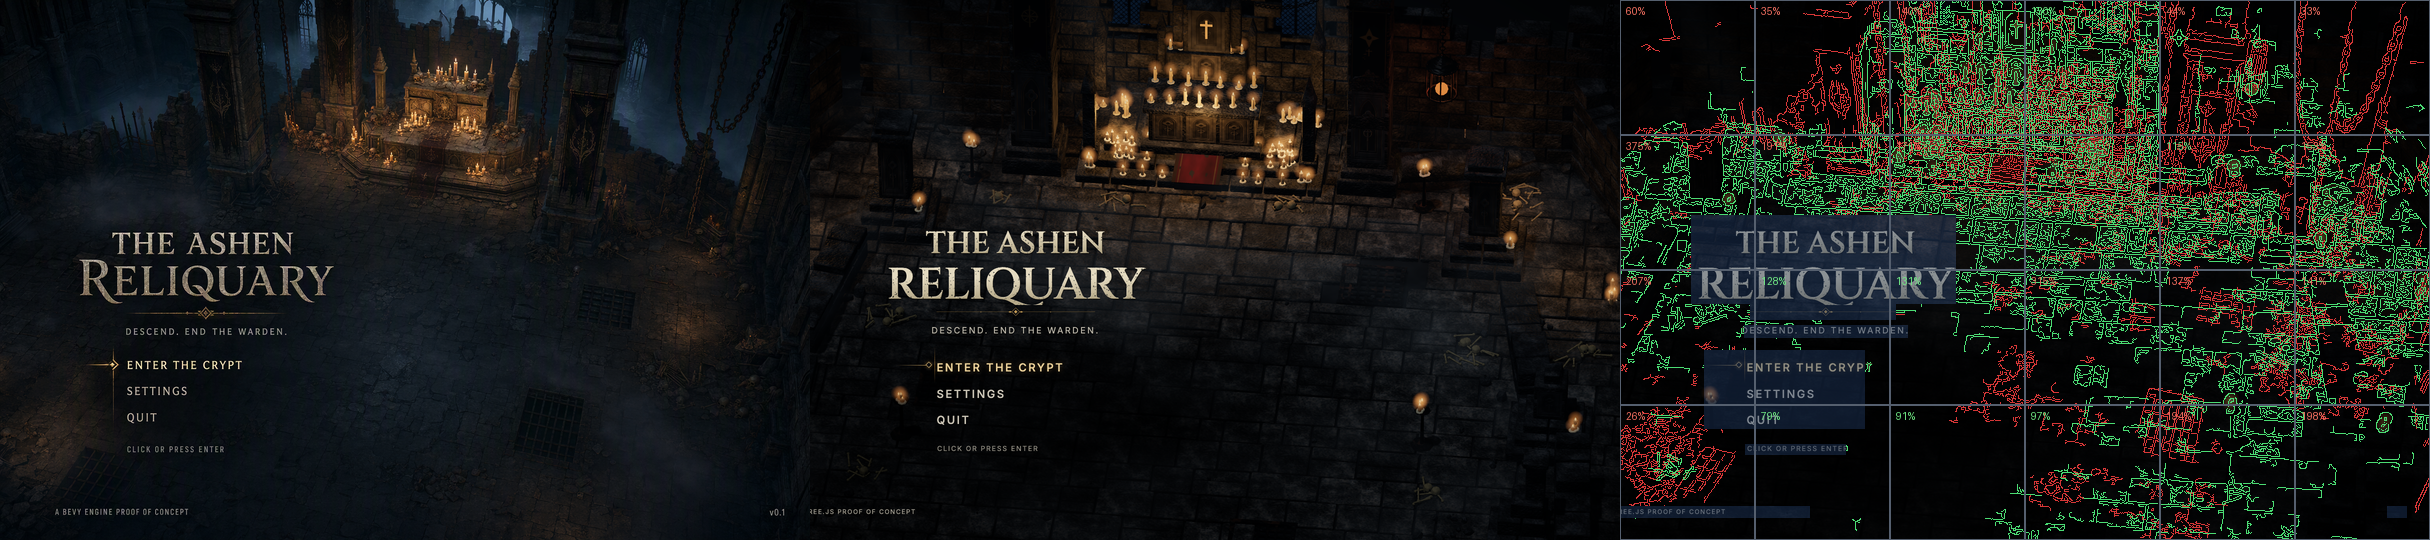
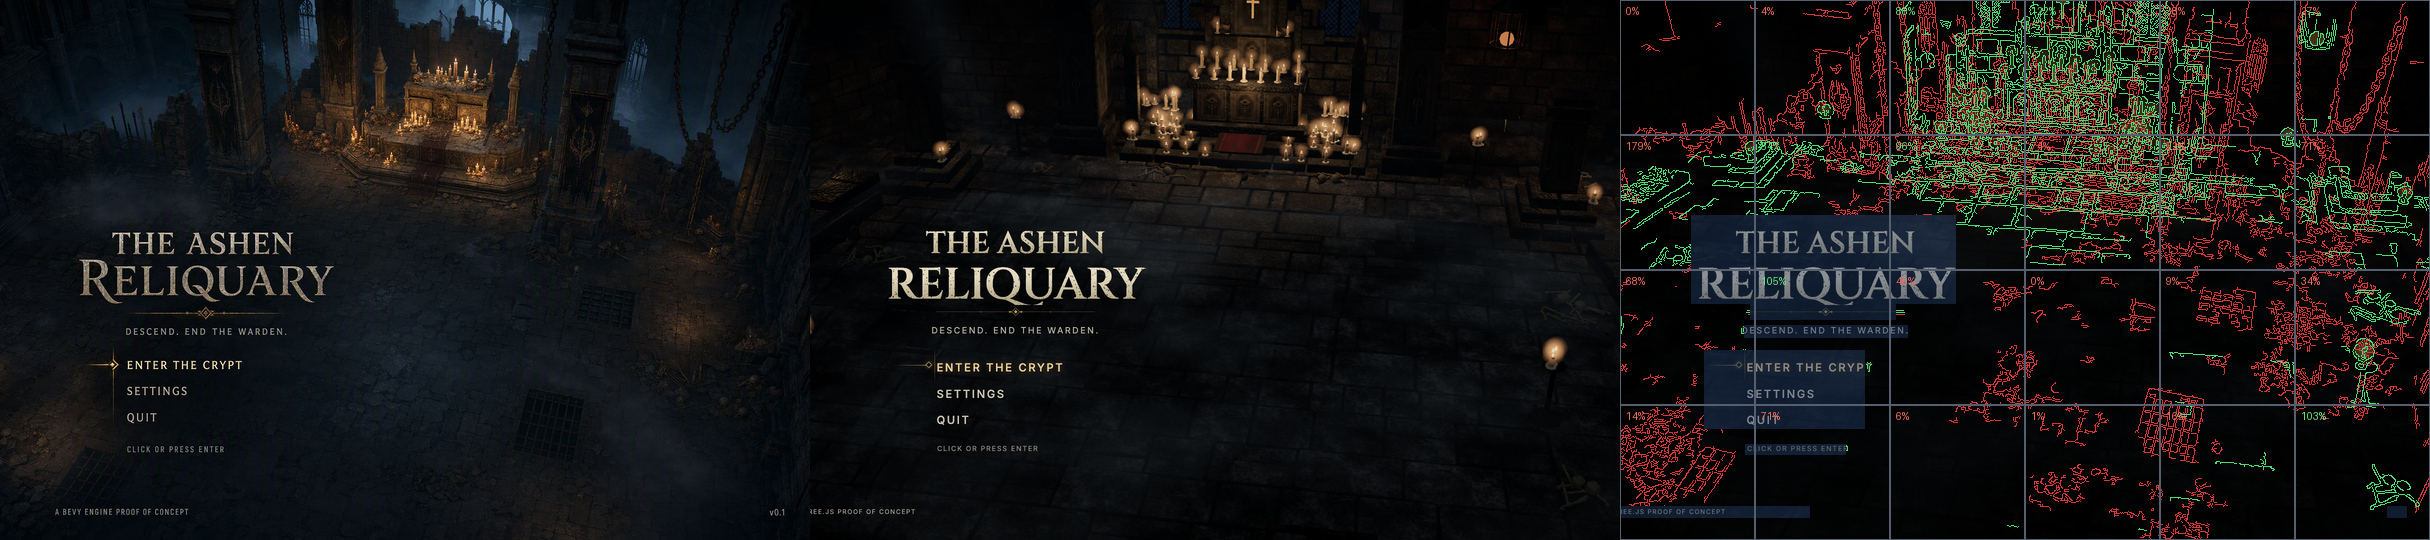
Title pose and grade tuned against v2 gate (struct 56.5 -> 75.3); per-pose tint and candle scale

diff --git a/src/main.js b/src/main.js
@@ -72,7 +72,7 @@ composer.addPass(new OutputPass());
 // ---------------------------------------------------------------- camera poses
 // pitch/yaw in degrees; height = vertical extent of the orthographic view in world units.
 const POSES = {
-  title: { target: new THREE.Vector3(0.9, 0.5, -1.2), yaw: 6, pitch: 38, height: 14.5, moon: 1.25, hemi: 0.8, shade: 0.75 },
+  title: { target: new THREE.Vector3(0.0, -0.75, -0.9), yaw: 9, pitch: 29, height: 13.0, fov: 28, moon: 0.35, hemi: 0.675, candles: 0.8, shade: 0.3, sat: 0.75, lo: [0.92, 0.99, 1.04] },
   settings: { target: new THREE.Vector3(-3.3, 2.2, -4.6), yaw: 8, pitch: 26, height: 13.5, moon: 2.4, hemi: 1.3 },
   crypt: { target: new THREE.Vector3(0.15, -1.1, 2.2), yaw: 0, pitch: 38, height: 17.2, fov: 8, moon: 2.15, hemi: 1.3, pool: 5, sat: 0.7, shade: 0.05 },
 };
@@ -152,6 +152,8 @@ function go(next) {
   const pose = POSES[next] || POSES.title; world.setMood(pose.moon, pose.hemi, pose.pool);
   grade.uniforms.uShade.value = pose.shade || 0;
   grade.uniforms.uSat.value = pose.sat ?? 0.9; grade.uniforms.uGain.value = pose.gain ?? 1;
+  grade.uniforms.uLo.value.set(...(pose.lo || [0.96, 0.99, 1.04])); grade.uniforms.uHi.value.set(...(pose.hi || [1.04, 1.0, 0.95]));
+  world.setCandleScale(pose.candles ?? 1);
   if (!prev || FREEZE) { const p = POSES[next] || POSES.title; cam.target.copy(p.target); cam.yaw = p.yaw; cam.pitch = p.pitch; cam.height = p.height; cam.fov = p.fov ?? 4; }
   if (PASS === 'clay') applyClay();
 }
@@ -265,7 +267,7 @@ window.__crawlerProject = (x, z) => project(new THREE.Vector3(x, 0.5, z));
 window.__crawlerDebug = {
   pose: p => { if (p.target) cam.target.set(...p.target); for (const k of ['yaw', 'pitch', 'height', 'fov']) if (p[k] !== undefined) cam[k] = p[k]; },
   grade: g => { const u = grade.uniforms; if (g.lo) u.uLo.value.set(...g.lo); if (g.hi) u.uHi.value.set(...g.hi); for (const k of ['sat', 'gain', 'shade', 'dim', 'vig']) if (g[k] !== undefined) u['u' + k[0].toUpperCase() + k.slice(1)].value = g[k]; },
-  lights: l => { if (l.moon !== undefined) world.moon.intensity = l.moon; if (l.pool !== undefined) world.pool.intensity = l.pool; if (l.hemi !== undefined) world.hemi.intensity = l.hemi; if (l.candles !== undefined) world.lights.forEach(x => { x.userData.base = x.userData.base0 ??= x.userData.base; x.userData.base = x.userData.base0 * l.candles; x.intensity = x.userData.base; }); if (l.exposure !== undefined) renderer.toneMappingExposure = l.exposure; if (l.moonColor) world.moon.color.set(l.moonColor); if (l.hemiColor) world.hemi.color.set(l.hemiColor); },
+  lights: l => { if (l.moon !== undefined) world.moon.intensity = l.moon; if (l.pool !== undefined) world.pool.intensity = l.pool; if (l.hemi !== undefined) world.hemi.intensity = l.hemi; if (l.candles !== undefined) world.setCandleScale(l.candles); if (l.exposure !== undefined) renderer.toneMappingExposure = l.exposure; if (l.moonColor) world.moon.color.set(l.moonColor); if (l.hemiColor) world.hemi.color.set(l.hemiColor); },
   state: () => ({ cam: { target: cam.target.toArray(), yaw: cam.yaw, pitch: cam.pitch, height: cam.height, fov: cam.fov } }),
 };
 Object.defineProperties(telemetry, {

diff --git a/src/world.js b/src/world.js
@@ -487,6 +487,7 @@ export class World {
     }
   }
 
+  setCandleScale(k) { for (const l of this.lights) { l.userData.base0 ??= l.userData.base; l.userData.base = l.userData.base0 * k; l.intensity = l.userData.base; } }
   setMood(moon, hemi, pool = 0) { this.moon.intensity = moon; this.hemi.intensity = hemi; this.pool.intensity = pool; }
 
   // ------------------------------------------------------------ per-frame
